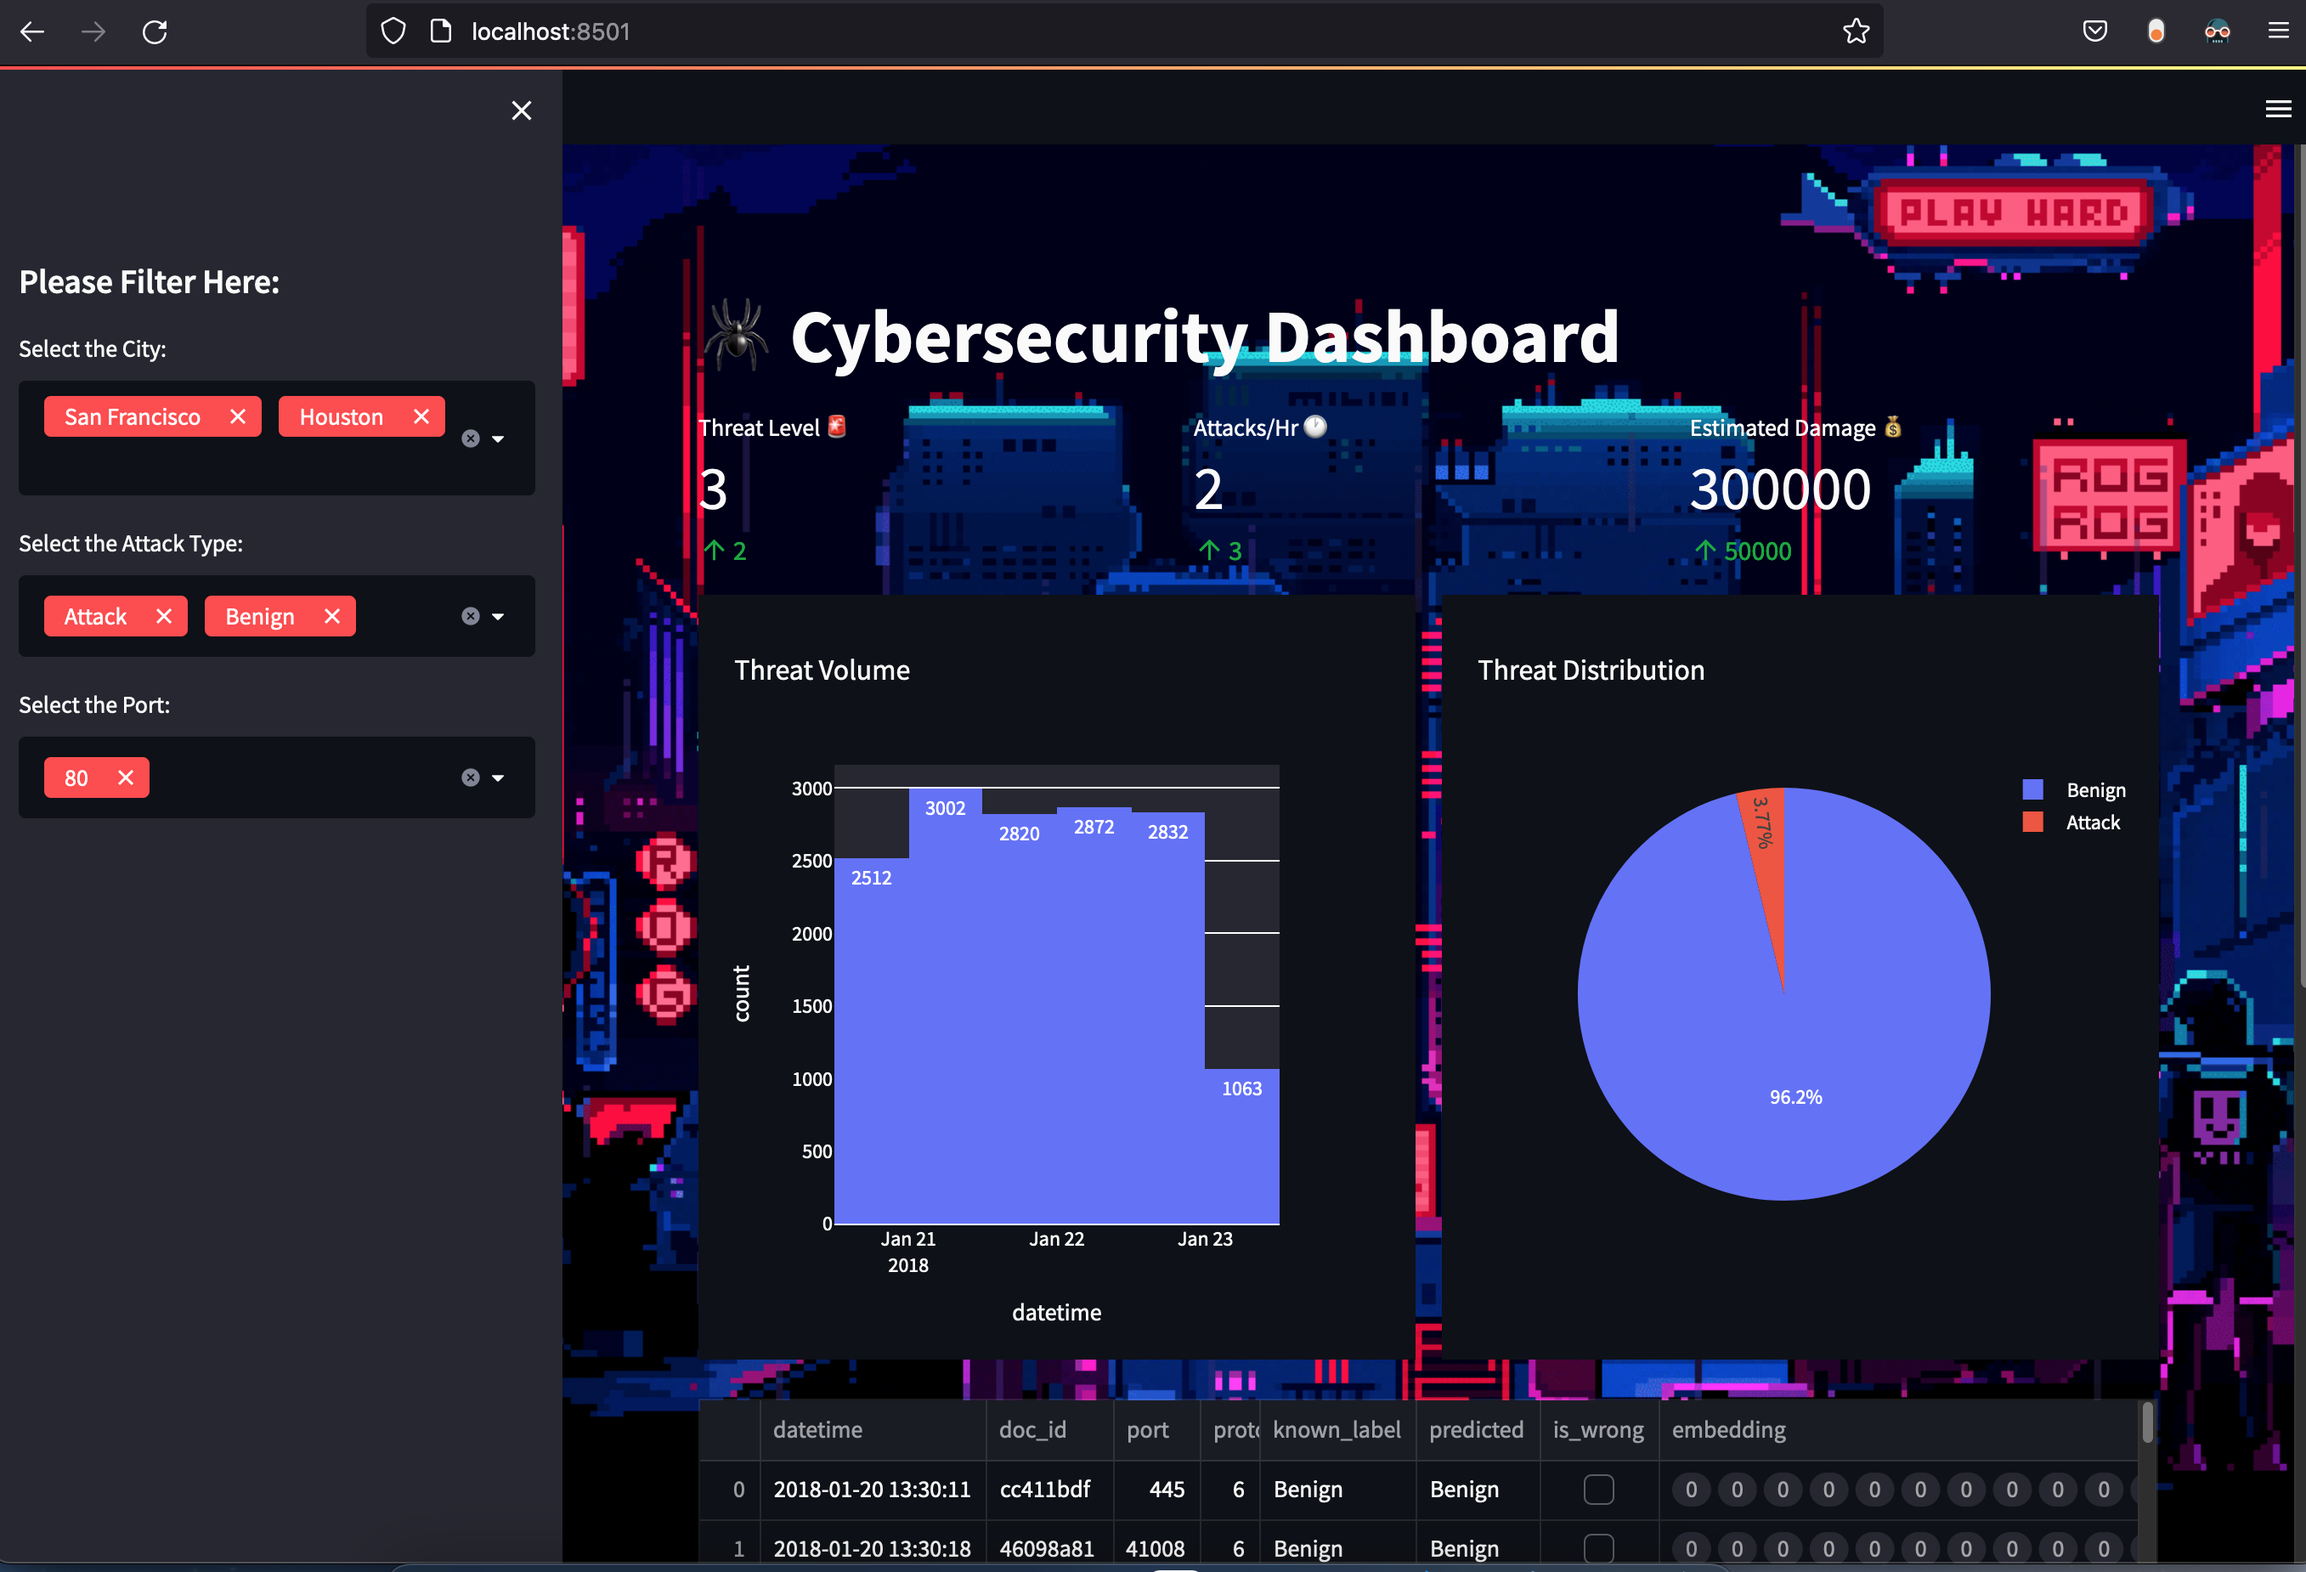
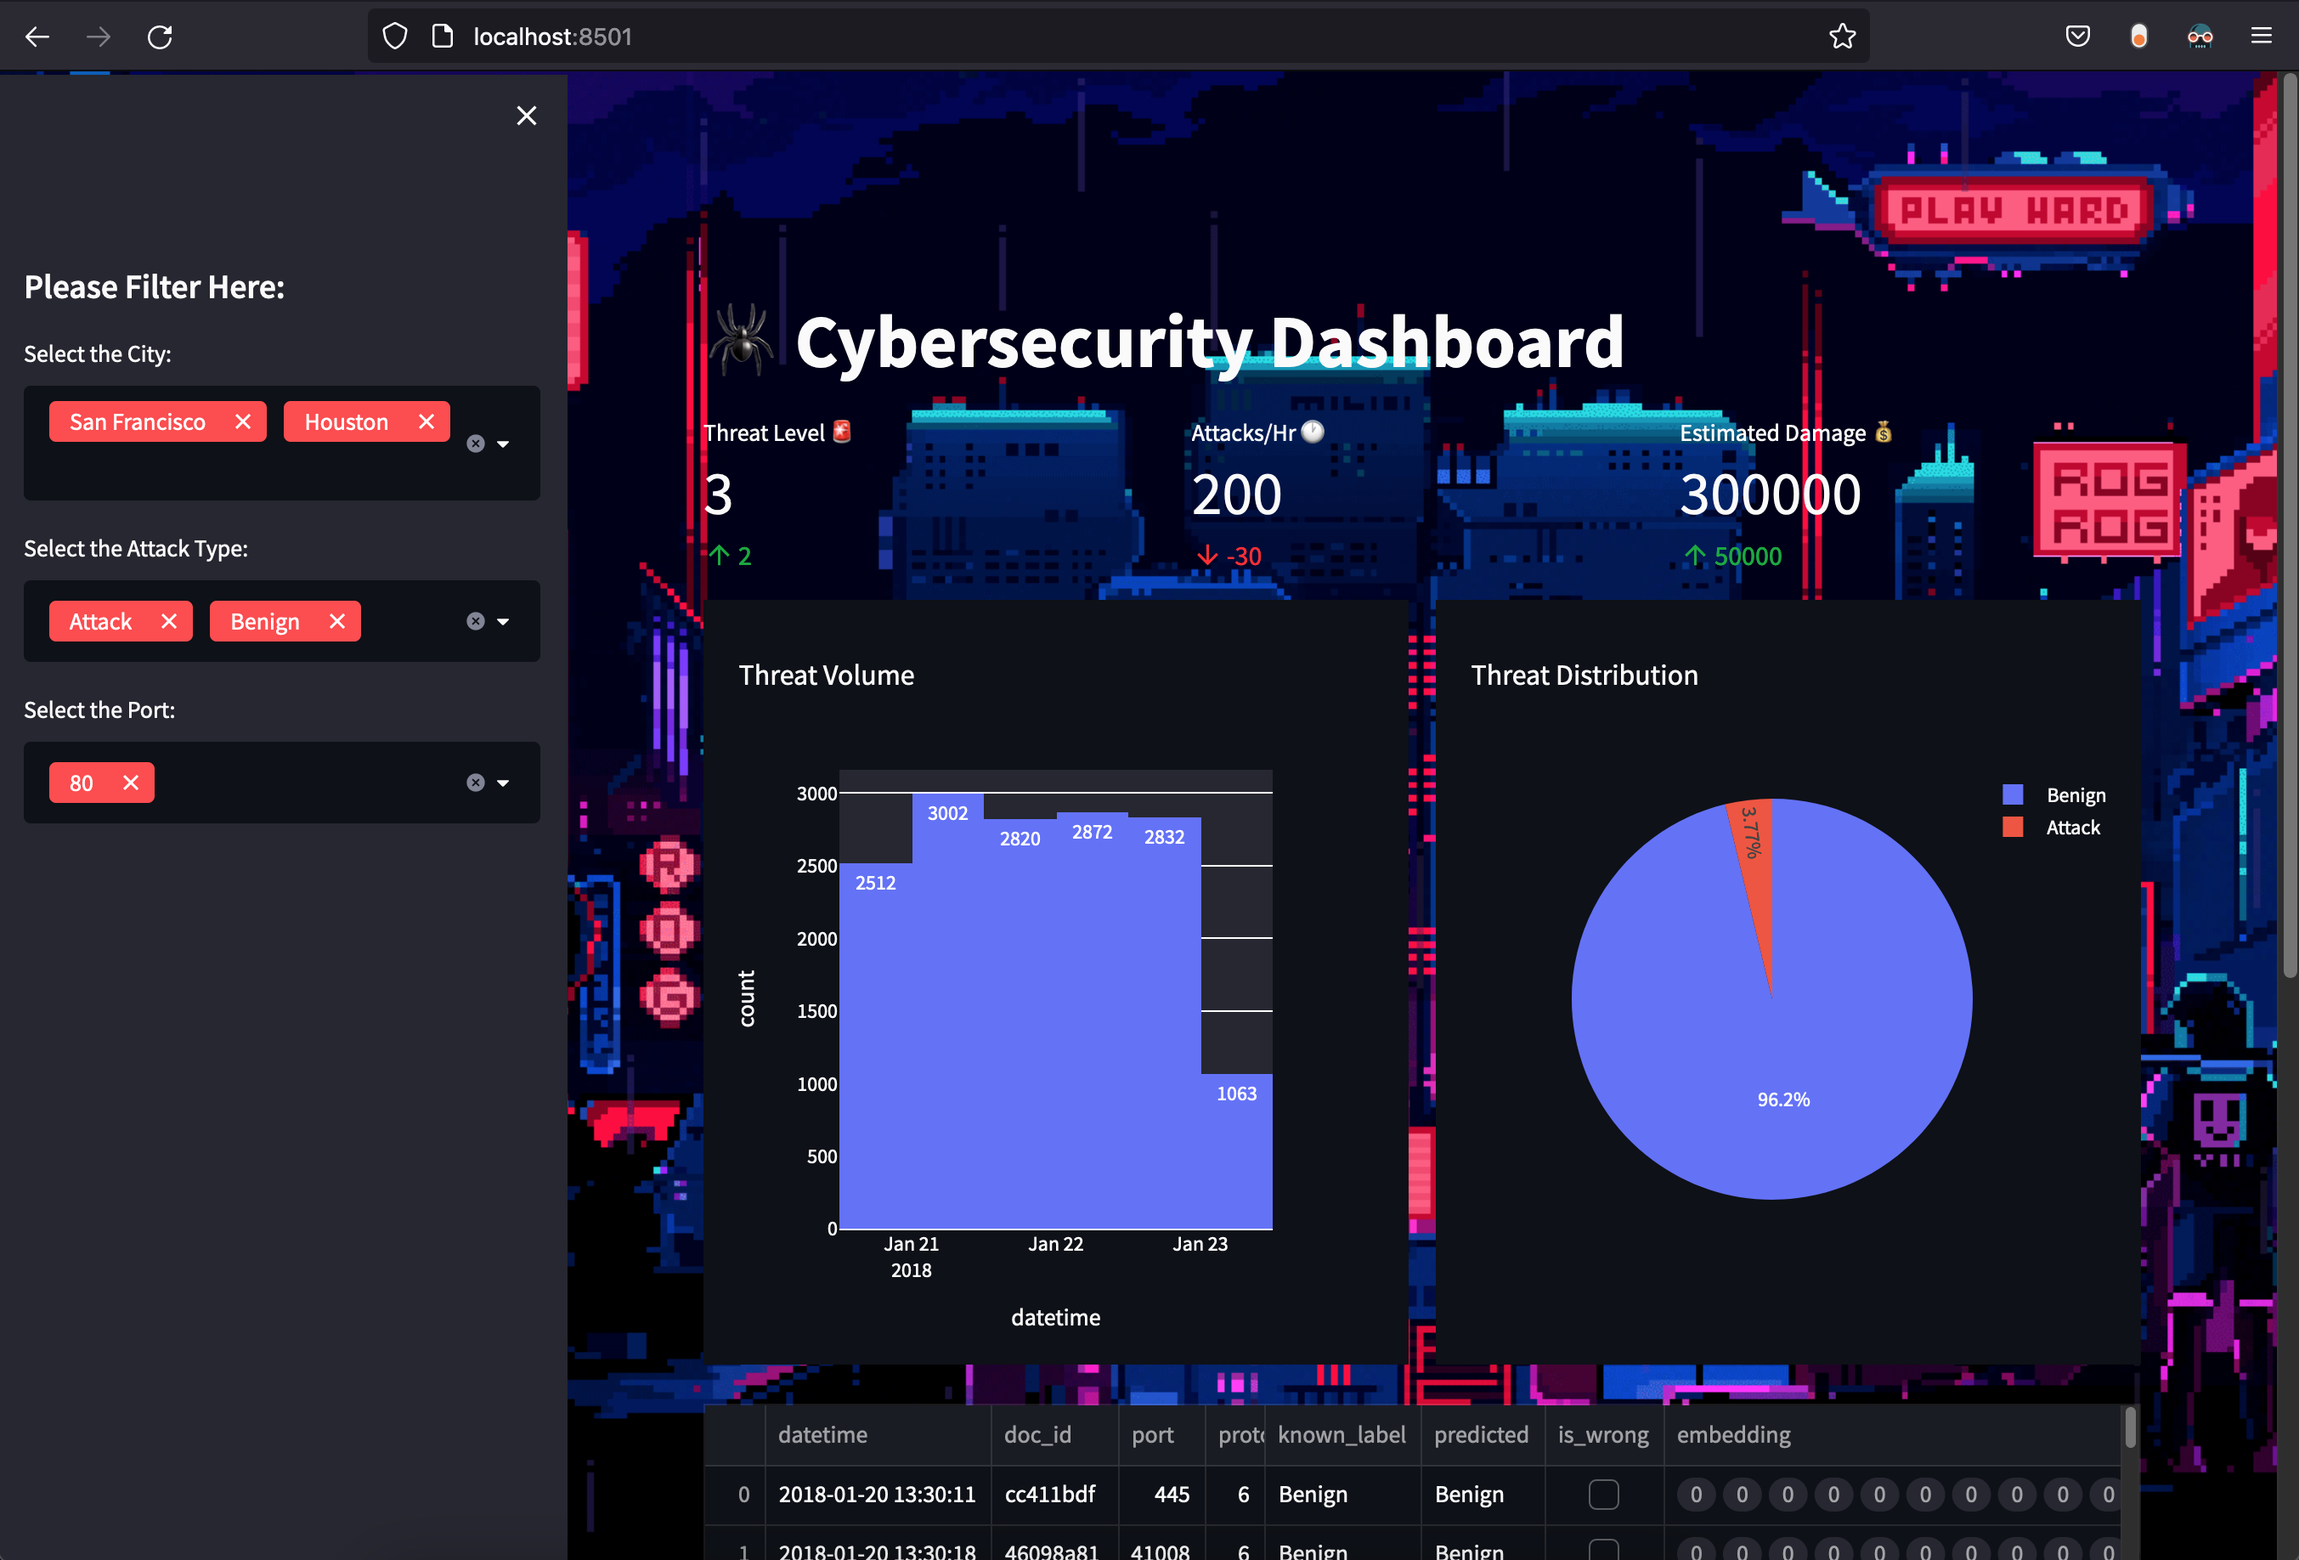
refactor: readme

diff --git a/myapp.py b/myapp.py
@@ -23,7 +23,7 @@ with placeholder.container():
 
     # fill in those three columns with respective metrics or KPIs 
     kpi1.metric(label="Threat Level 🚨", value=3, delta=2)
-    kpi2.metric(label="Attacks/Hr 🕐", value=200, delta=30)
+    kpi2.metric(label="Attacks/Hr 🕐", value=200, delta=-30)
     kpi3.metric(label="Estimated Damage 💰", value=300000, delta=50000)
 
 fig1 = px.histogram(df, x="datetime", y="predicted", histfunc="count", nbins=8, text_auto=True, title='Threat Volume')
@@ -60,11 +60,11 @@ gender = st.sidebar.multiselect(
 )
 
 # ---- HIDE STREAMLIT STYLE ----
-# hide_st_style = """
-#             <style>
-#             #MainMenu {visibility: hidden;}
-#             footer {visibility: hidden;}
-#             header {visibility: hidden;}
-#             </style>
-#             """
-# st.markdown(hide_st_style, unsafe_allow_html=True)
+hide_st_style = """
+            <style>
+            #MainMenu {visibility: hidden;}
+            footer {visibility: hidden;}
+            header {visibility: hidden;}
+            </style>
+            """
+st.markdown(hide_st_style, unsafe_allow_html=True)
